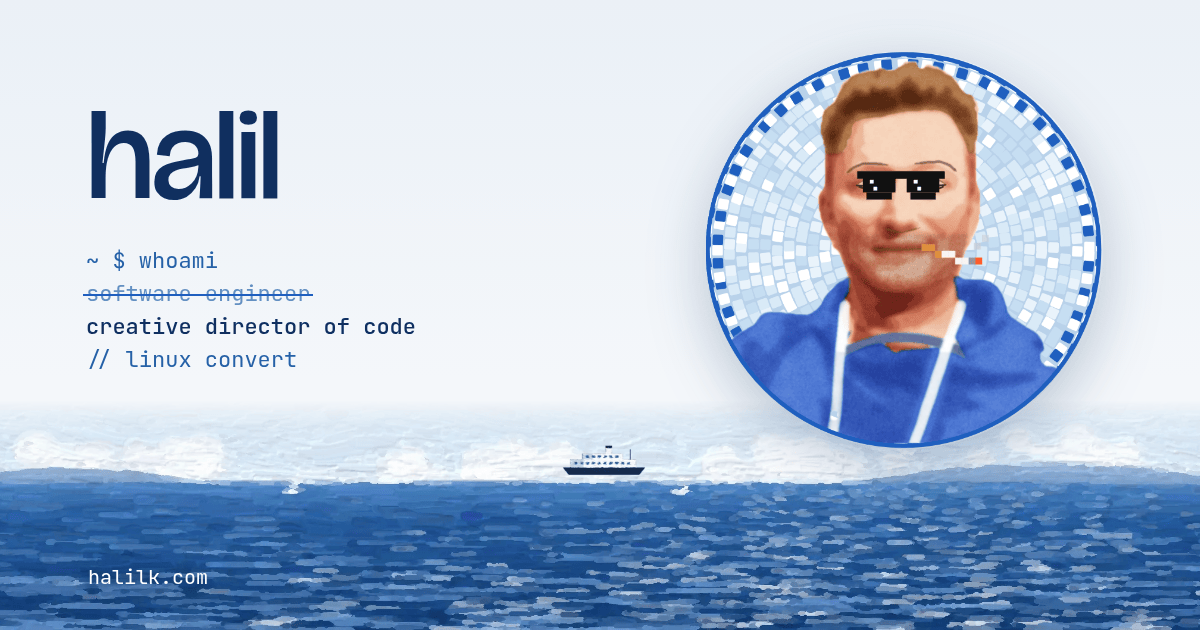
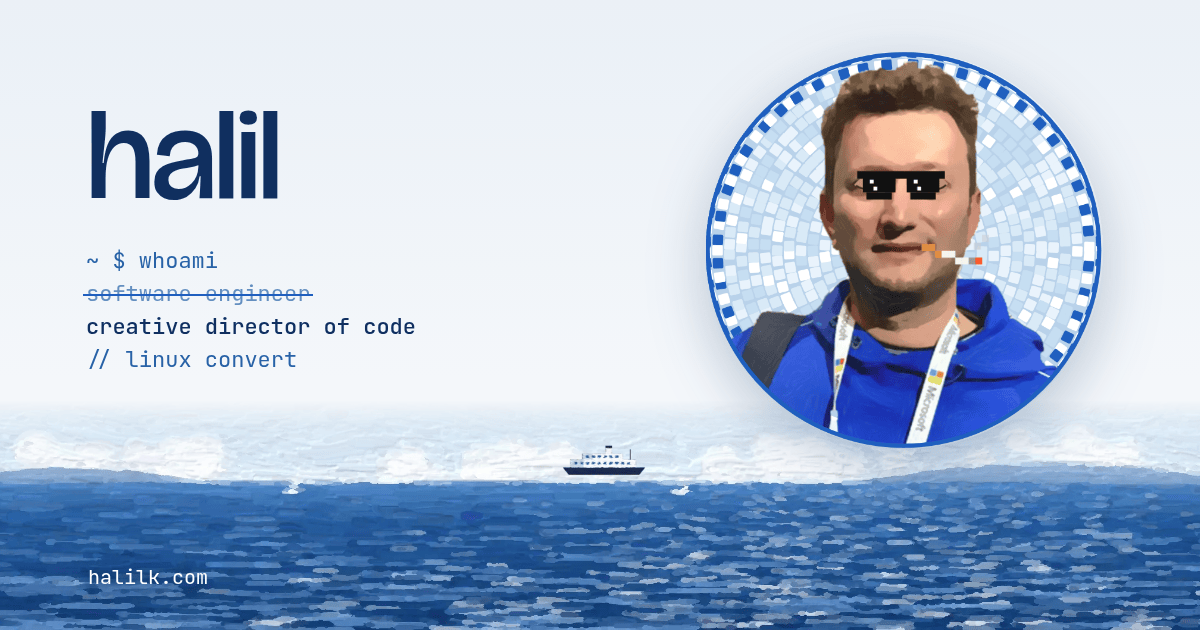
deploy: ibo549/halilk@2be8e807cc9b729763aa8944e6ad6124f8f7d6e5

Changed region(s): [[0.6167, 0.0905, 0.8942, 0.7238]]

diff --git a/about/index.html b/about/index.html
@@ -7,8 +7,8 @@
 <span class=bar-np-text></span>
 </a><time class=bar-clock title="My local time in Poland"></time>
 <button class=bar-theme type=button aria-label="Switch theme">
-<svg viewBox="0 0 24 24" aria-hidden="true"><mask id="moon-bite"><rect width="24" height="24" fill="#fff"/><circle class="bite" cx="24" cy="4" r="7" fill="#000"/></mask><circle class="orb" cx="12" cy="12" r="5.2" mask="url(#moon-bite)"/><g class="rays"><line x1="12" y1="1.8" x2="12" y2="3.8"/><line x1="12" y1="20.2" x2="12" y2="22.2"/><line x1="1.8" y1="12" x2="3.8" y2="12"/><line x1="20.2" y1="12" x2="22.2" y2="12"/><line x1="4.8" y1="4.8" x2="6.2" y2="6.2"/><line x1="17.8" y1="17.8" x2="19.2" y2="19.2"/><line x1="4.8" y1="19.2" x2="6.2" y2="17.8"/><line x1="17.8" y1="6.2" x2="19.2" y2="4.8"/></g></svg></button></div><span class=bar-progress aria-hidden=true></span></header><div class=shell id=content><main class="page page--wide"><article class="post about"><div class=about-main><header class=page-head><h1 class=page-title>Hi! I am Halil.</h1><p class=about-lede>🇵🇱 A software engineer based in Poland.<br>👨🏼💻 Running my own software consultancy business out of my home office in Poland.</p></header><div class=prose><p>Programming is a hobby from my early childhood days. I have been doing it for more than 15 years professionally. I happened to live in a few different countries either as an expat software engineer or for obtaining degrees in software engineering (Estonia, UK, Turkey, and currently Poland).</p><p>🎯 I am a bit obsessed with good quality software. Good enough is usually not good enough for me. Starting from the ideation, through UX, into the design of an architecture that scales, implementation of the MVP, creation of devops pipelines, gathering feedback from end-users.. repeat until it becomes perfect. I love being in every phase of it, one way or another.</p><p class=pullquote aria-hidden=true>Good enough is usually not good enough for me.</p><p>🌸 I believe in a strong team culture where everyone in the team is empowered by each other. Taking the lead in their area of expertise. I aim to be the force-multiplier kind of person who tries his best to give everyone the juice to flourish. I see developing world-class software as a team-sport after all.</p><p>🌃 Apart from my day job, sometimes I do <a href=/projects/>projects</a> on the side (although these all pre-date the AI-assisted coding era, built the hard way, character by character) mostly because of curiosity. In the evenings or at some weekends.. if I can negotiate the time with my SO.</p><p>📖 My Kindle mostly consists of articles I find interesting on the web (mostly Hacker News nowadays) and books about my profession or sci-fi.</p><p>🎸 Playing electric guitar on a Vox without disturbing anyone at night is also something I like to do occasionally.</p><p>I am a father of 2 beautiful girls and I love them endlessly.</p></div></div><aside class=about-side><figure class="portrait portrait--about" data-portrait><div class=portrait-card><div class="portrait-face portrait-front"><svg class="portrait-svg" viewBox="0 0 282 282" role="img" aria-label="Halil Karaca, a watercolour cartoon in front of a blue and white mosaic"><defs><clipPath id="pt-medal"><circle cx="141" cy="141" r="138"/></clipPath></defs><g clip-path="url(#pt-medal)"><g class="pt-roundel" data-roundel=""><circle class="pt-roundel-bg" cx="141" cy="141" r="138"/></g></g></svg><div class=pt-art aria-hidden=true><div class=pt-art-tilt><div class=pt-art-breath><img src=/img/halil-watercolor.webp alt width=840 height=840 decoding=async>
-<svg class="pt-over" viewBox="0 0 282 282"><clipPath id="pt-eye-r"><path d="M108.3 97.7 109.4 96.9l1.3-1 2.3-1.2L116.8 94 120.5 94.2 124.5 95.6 127.5 97.7 128.9 99 127.8 99.3h-2.5L121.7 99.7 118 1e2 114.3 99.9 111.8 99.3 110 98.7z"/></clipPath><g clip-path="url(#pt-eye-r)"><g class="pt-iris"><circle cx="117.5" cy="96.9" r="4.07" class="pt-irisc"/><circle cx="117.5" cy="96.9" r="1.87" class="pt-pupil"/><circle cx="116.2" cy="95.5" r=".98" class="pt-glint"/></g></g><g class="pt-lid"><path class="pt-lid-skin" d="M108.3 97.7 109.4 96.9l1.3-1 2.3-1.2L116.8 94 120.5 94.2 124.5 95.6 127.5 97.7 128.9 99 127.8 99.3h-2.5L121.7 99.7 118 1e2 114.3 99.9 111.8 99.3 110 98.7z"/><path class="pt-lash" d="M108.3 97.7 128.9 99 127.8 99.3h-2.5L121.7 99.7 118 1e2 114.3 99.9 111.8 99.3 110 98.7"/></g><clipPath id="pt-eye-l"><path d="M170.4 97.3 169.4 96.6 168 95.6 165.6 94.4 161.9 93.7 158 94.1l-4 1.5-3 2.2L149.6 99.3 150.8 99.5 153.2 99.7 156.8 100.1 160.8 100.4 164.5 1e2 167 99.4 168.8 98.6z"/></clipPath><g clip-path="url(#pt-eye-l)"><g class="pt-iris"><circle cx="161.4" cy="97" r="4.12" class="pt-irisc"/><circle cx="161.4" cy="97" r="1.9" class="pt-pupil"/><circle cx="160.1" cy="95.5" r=".99" class="pt-glint"/></g></g><g class="pt-lid"><path class="pt-lid-skin" d="M170.4 97.3 169.4 96.6 168 95.6 165.6 94.4 161.9 93.7 158 94.1l-4 1.5-3 2.2L149.6 99.3 150.8 99.5 153.2 99.7 156.8 100.1 160.8 100.4 164.5 1e2 167 99.4 168.8 98.6z"/><path class="pt-lash" d="M170.4 97.3l-20.8 2L150.8 99.5 153.2 99.7 156.8 100.1 160.8 100.4 164.5 1e2 167 99.4 168.8 98.6"/></g><g class="pt-cig"><g class="pt-cig-drop"><rect class="pt-cig-filter" x="153.68" y="138.78" width="4.8" height="4.8"/><rect class="pt-cig-filter" x="158.39" y="138.78" width="4.8" height="4.8"/><rect class="pt-cig-filter" x="163.09" y="143.48" width="4.8" height="4.8"/><rect class="pt-cig-paper" x="167.79" y="143.48" width="4.8" height="4.8"/><rect class="pt-cig-paper" x="172.5" y="143.48" width="4.8" height="4.8"/><rect class="pt-cig-paper" x="177.2" y="148.19" width="4.8" height="4.8"/><rect class="pt-cig-paper" x="181.9" y="148.19" width="4.8" height="4.8"/><rect class="pt-cig-ash" x="186.61" y="148.19" width="4.8" height="4.8"/><rect class="pt-cig-ember" x="191.31" y="148.19" width="4.8" height="4.8"/><g class="pt-smoke" style="--s:0"><rect class="pt-smoke-px" x="191.31" y="138.78" width="4.8" height="4.8"/></g><g class="pt-smoke" style="--s:1"><rect class="pt-smoke-px" x="196.01" y="129.37" width="4.8" height="4.8"/></g><g class="pt-smoke" style="--s:2"><rect class="pt-smoke-px" x="191.31" y="119.97" width="4.8" height="4.8"/></g><g class="pt-smoke" style="--s:3"><rect class="pt-smoke-px" x="196.01" y="110.56" width="4.8" height="4.8"/></g></g></g><g class="pt-shades"><g class="pt-shades-drop"><rect x="108.6" y="87.7" width="61.4" height="5.4"/><rect x="112.6" y="92.7" width="22.8" height="9.9"/><rect x="115.1" y="102.6" width="17.8" height="5"/><rect x="143.3" y="92.7" width="22.8" height="9.9"/><rect x="145.8" y="102.6" width="17.8" height="5"/><rect class="pt-glint" x="117.5" y="93.7" width="2.7" height="2.7"/><rect class="pt-glint" x="120" y="98.6" width="2.7" height="2.7"/><rect class="pt-glint" x="148.2" y="93.7" width="2.7" height="2.7"/><rect class="pt-glint" x="150.7" y="98.6" width="2.7" height="2.7"/></g></g></svg></div></div></div><svg class="pt-ring" viewBox="0 0 282 282" aria-hidden="true"><circle class="pt-rim" cx="141" cy="141" r="138"/></svg></div><div class="portrait-face portrait-back" aria-hidden=true><svg viewBox="26 9 282 282"><clipPath id="pt-photo-clip"><circle cx="167" cy="150" r="138"/></clipPath><image href="/img/profile2.jpeg" x="0" y="0" width="320" height="320" clip-path="url(#pt-photo-clip)" preserveAspectRatio="none"/><circle class="pt-photo-rim" cx="167" cy="150" r="138"/></svg></div></div></figure></aside></article></main></div><footer class=land><div class=shore><canvas id=shore aria-hidden=true></canvas><div class=ferry aria-hidden=true><img src=/img/painting/ferry.webp alt width=240 height=105 loading=lazy decoding=async>
+<svg viewBox="0 0 24 24" aria-hidden="true"><mask id="moon-bite"><rect width="24" height="24" fill="#fff"/><circle class="bite" cx="24" cy="4" r="7" fill="#000"/></mask><circle class="orb" cx="12" cy="12" r="5.2" mask="url(#moon-bite)"/><g class="rays"><line x1="12" y1="1.8" x2="12" y2="3.8"/><line x1="12" y1="20.2" x2="12" y2="22.2"/><line x1="1.8" y1="12" x2="3.8" y2="12"/><line x1="20.2" y1="12" x2="22.2" y2="12"/><line x1="4.8" y1="4.8" x2="6.2" y2="6.2"/><line x1="17.8" y1="17.8" x2="19.2" y2="19.2"/><line x1="4.8" y1="19.2" x2="6.2" y2="17.8"/><line x1="17.8" y1="6.2" x2="19.2" y2="4.8"/></g></svg></button></div><span class=bar-progress aria-hidden=true></span></header><div class=shell id=content><main class="page page--wide"><article class="post about"><div class=about-main><header class=page-head><h1 class=page-title>Hi! I am Halil.</h1><p class=about-lede>🇵🇱 A software engineer based in Poland.<br>👨🏼💻 Running my own software consultancy business out of my home office in Poland.</p></header><div class=prose><p>Programming is a hobby from my early childhood days. I have been doing it for more than 15 years professionally. I happened to live in a few different countries either as an expat software engineer or for obtaining degrees in software engineering (Estonia, UK, Turkey, and currently Poland).</p><p>🎯 I am a bit obsessed with good quality software. Good enough is usually not good enough for me. Starting from the ideation, through UX, into the design of an architecture that scales, implementation of the MVP, creation of devops pipelines, gathering feedback from end-users.. repeat until it becomes perfect. I love being in every phase of it, one way or another.</p><p class=pullquote aria-hidden=true>Good enough is usually not good enough for me.</p><p>🌸 I believe in a strong team culture where everyone in the team is empowered by each other. Taking the lead in their area of expertise. I aim to be the force-multiplier kind of person who tries his best to give everyone the juice to flourish. I see developing world-class software as a team-sport after all.</p><p>🌃 Apart from my day job, sometimes I do <a href=/projects/>projects</a> on the side (although these all pre-date the AI-assisted coding era, built the hard way, character by character) mostly because of curiosity. In the evenings or at some weekends.. if I can negotiate the time with my SO.</p><p>📖 My Kindle mostly consists of articles I find interesting on the web (mostly Hacker News nowadays) and books about my profession or sci-fi.</p><p>🎸 Playing electric guitar on a Vox without disturbing anyone at night is also something I like to do occasionally.</p><p>I am a father of 2 beautiful girls and I love them endlessly.</p></div></div><aside class=about-side><figure class="portrait portrait--about" data-portrait><div class=portrait-card><div class="portrait-face portrait-front"><svg class="portrait-svg" viewBox="0 0 282 282" role="img" aria-label="Halil Karaca, a painted portrait in front of a blue and white mosaic"><defs><clipPath id="pt-medal"><circle cx="141" cy="141" r="138"/></clipPath></defs><g clip-path="url(#pt-medal)"><g class="pt-roundel" data-roundel=""><circle class="pt-roundel-bg" cx="141" cy="141" r="138"/></g></g></svg><div class=pt-art aria-hidden=true><div class=pt-art-tilt><div class=pt-art-breath><img src=/img/halil-painted.webp alt width=720 height=720 decoding=async>
+<svg class="pt-over" viewBox="0 0 282 282"><g class="pt-lid"><path fill="#c0957f" d="M106.5 97.2 107.8 95.8 109.4 94.1 112.1 92.1 116.6 90.9 120.9 91.2 125.7 93.6 129.2 97.2 130.9 99.4 129.6 99.9h-3L122.4 100.6 118 101.1 113.6 100.9 110.7 99.9 108.6 98.9z"/><path class="pt-lash" d="M128.9 99.4 127.8 99.7h-2.5L121.7 100.1 118 100.4 114.3 100.3 111.8 99.7 110 99.1l-1.7-1"/></g><g class="pt-lid"><path fill="#c2907c" d="M172.2 96.5 171 95.3 169.3 93.6 166.5 91.5 162.1 90.3 157.5 91 152.8 93.6l-3.5 3.7L147.6 99.9 149 100.2 151.9 100.5 156.1 101.2 160.8 101.7 165.2 101.1 168.1 1e2 170.3 98.7z"/><path class="pt-lash" d="M149.6 99.7 150.8 99.9 153.2 100.1 156.8 100.5 160.8 100.8 164.5 100.4 167 99.8 168.8 99 170.4 97.7"/></g><g class="pt-cig"><g class="pt-cig-drop"><rect class="pt-cig-filter" x="153.68" y="138.78" width="4.8" height="4.8"/><rect class="pt-cig-filter" x="158.39" y="138.78" width="4.8" height="4.8"/><rect class="pt-cig-filter" x="163.09" y="143.48" width="4.8" height="4.8"/><rect class="pt-cig-paper" x="167.79" y="143.48" width="4.8" height="4.8"/><rect class="pt-cig-paper" x="172.5" y="143.48" width="4.8" height="4.8"/><rect class="pt-cig-paper" x="177.2" y="148.19" width="4.8" height="4.8"/><rect class="pt-cig-paper" x="181.9" y="148.19" width="4.8" height="4.8"/><rect class="pt-cig-ash" x="186.61" y="148.19" width="4.8" height="4.8"/><rect class="pt-cig-ember" x="191.31" y="148.19" width="4.8" height="4.8"/><g class="pt-smoke" style="--s:0"><rect class="pt-smoke-px" x="191.31" y="138.78" width="4.8" height="4.8"/></g><g class="pt-smoke" style="--s:1"><rect class="pt-smoke-px" x="196.01" y="129.37" width="4.8" height="4.8"/></g><g class="pt-smoke" style="--s:2"><rect class="pt-smoke-px" x="191.31" y="119.97" width="4.8" height="4.8"/></g><g class="pt-smoke" style="--s:3"><rect class="pt-smoke-px" x="196.01" y="110.56" width="4.8" height="4.8"/></g></g></g><g class="pt-shades"><g class="pt-shades-drop"><rect x="108.6" y="87.7" width="61.4" height="5.4"/><rect x="112.6" y="92.7" width="22.8" height="9.9"/><rect x="115.1" y="102.6" width="17.8" height="5"/><rect x="143.3" y="92.7" width="22.8" height="9.9"/><rect x="145.8" y="102.6" width="17.8" height="5"/><rect class="pt-glint" x="117.5" y="93.7" width="2.7" height="2.7"/><rect class="pt-glint" x="120" y="98.6" width="2.7" height="2.7"/><rect class="pt-glint" x="148.2" y="93.7" width="2.7" height="2.7"/><rect class="pt-glint" x="150.7" y="98.6" width="2.7" height="2.7"/></g></g></svg></div></div></div><svg class="pt-ring" viewBox="0 0 282 282" aria-hidden="true"><circle class="pt-rim" cx="141" cy="141" r="138"/></svg></div><div class="portrait-face portrait-back" aria-hidden=true><svg viewBox="26 9 282 282"><clipPath id="pt-photo-clip"><circle cx="167" cy="150" r="138"/></clipPath><image href="/img/profile2.jpeg" x="0" y="0" width="320" height="320" clip-path="url(#pt-photo-clip)" preserveAspectRatio="none"/><circle class="pt-photo-rim" cx="167" cy="150" r="138"/></svg></div></div></figure></aside></article></main></div><footer class=land><div class=shore><canvas id=shore aria-hidden=true></canvas><div class=ferry aria-hidden=true><img src=/img/painting/ferry.webp alt width=240 height=105 loading=lazy decoding=async>
 <span class=ferry-puffs><i></i><i></i><i></i></span></div><div class=shore-veil aria-hidden=true></div><div class=shore-text><a class=radio href=/now-playing/ hidden><span class=radio-disc aria-hidden=true><span class=radio-art></span></span>
 <span class=radio-lines><span class=radio-label></span>
 <span class=radio-track></span>

diff --git a/index.html b/index.html
@@ -12,8 +12,8 @@
 <del aria-hidden=true>software engineer</del>
 <ins aria-hidden=true>creative director of code</ins>
 <span class=whoami-comment aria-hidden=true>// linux convert</span>
-<a class="whoami-comment whoami-link" href=https://github.com/ibo549 rel="me noopener">// github.com/ibo549</a></div><div class=hero-prose><p>You can read my <a href=/journal/ data-say=journal>journal</a> <span class=aside>(or not, it's only for me anyway)</span>.</p><p>Or read <a href=/about/ data-say=about>who am I</a>.</p><p>I also have this <a href=/projects/ data-say=projects>projects</a> page which should feel nostalgic coz' they are all from the primitive era where we used to type every single line of code character by character.</p><p class=hello>If you'd like to say hello, you can reach me at <a href=mailto:halil.ibrahim.karaca@gmail.com data-say=email>halil.ibrahim.karaca@gmail.com</a>. I will read it because of my inbox-zero policy but I don't guarantee that I will respond.</p></div></div><figure class="portrait portrait--hero" data-portrait><div class=portrait-card><div class="portrait-face portrait-front"><svg class="portrait-svg" viewBox="0 0 282 282" role="img" aria-label="Halil Karaca, a watercolour cartoon in front of a blue and white mosaic"><defs><clipPath id="pt-medal"><circle cx="141" cy="141" r="138"/></clipPath></defs><g clip-path="url(#pt-medal)"><g class="pt-roundel" data-roundel=""><circle class="pt-roundel-bg" cx="141" cy="141" r="138"/></g></g></svg><div class=pt-art aria-hidden=true><div class=pt-art-tilt><div class=pt-art-breath><img src=/img/halil-watercolor.webp alt width=840 height=840 decoding=async>
-<svg class="pt-over" viewBox="0 0 282 282"><clipPath id="pt-eye-r"><path d="M108.3 97.7 109.4 96.9l1.3-1 2.3-1.2L116.8 94 120.5 94.2 124.5 95.6 127.5 97.7 128.9 99 127.8 99.3h-2.5L121.7 99.7 118 1e2 114.3 99.9 111.8 99.3 110 98.7z"/></clipPath><g clip-path="url(#pt-eye-r)"><g class="pt-iris"><circle cx="117.5" cy="96.9" r="4.07" class="pt-irisc"/><circle cx="117.5" cy="96.9" r="1.87" class="pt-pupil"/><circle cx="116.2" cy="95.5" r=".98" class="pt-glint"/></g></g><g class="pt-lid"><path class="pt-lid-skin" d="M108.3 97.7 109.4 96.9l1.3-1 2.3-1.2L116.8 94 120.5 94.2 124.5 95.6 127.5 97.7 128.9 99 127.8 99.3h-2.5L121.7 99.7 118 1e2 114.3 99.9 111.8 99.3 110 98.7z"/><path class="pt-lash" d="M108.3 97.7 128.9 99 127.8 99.3h-2.5L121.7 99.7 118 1e2 114.3 99.9 111.8 99.3 110 98.7"/></g><clipPath id="pt-eye-l"><path d="M170.4 97.3 169.4 96.6 168 95.6 165.6 94.4 161.9 93.7 158 94.1l-4 1.5-3 2.2L149.6 99.3 150.8 99.5 153.2 99.7 156.8 100.1 160.8 100.4 164.5 1e2 167 99.4 168.8 98.6z"/></clipPath><g clip-path="url(#pt-eye-l)"><g class="pt-iris"><circle cx="161.4" cy="97" r="4.12" class="pt-irisc"/><circle cx="161.4" cy="97" r="1.9" class="pt-pupil"/><circle cx="160.1" cy="95.5" r=".99" class="pt-glint"/></g></g><g class="pt-lid"><path class="pt-lid-skin" d="M170.4 97.3 169.4 96.6 168 95.6 165.6 94.4 161.9 93.7 158 94.1l-4 1.5-3 2.2L149.6 99.3 150.8 99.5 153.2 99.7 156.8 100.1 160.8 100.4 164.5 1e2 167 99.4 168.8 98.6z"/><path class="pt-lash" d="M170.4 97.3l-20.8 2L150.8 99.5 153.2 99.7 156.8 100.1 160.8 100.4 164.5 1e2 167 99.4 168.8 98.6"/></g><g class="pt-cig"><g class="pt-cig-drop"><rect class="pt-cig-filter" x="153.68" y="138.78" width="4.8" height="4.8"/><rect class="pt-cig-filter" x="158.39" y="138.78" width="4.8" height="4.8"/><rect class="pt-cig-filter" x="163.09" y="143.48" width="4.8" height="4.8"/><rect class="pt-cig-paper" x="167.79" y="143.48" width="4.8" height="4.8"/><rect class="pt-cig-paper" x="172.5" y="143.48" width="4.8" height="4.8"/><rect class="pt-cig-paper" x="177.2" y="148.19" width="4.8" height="4.8"/><rect class="pt-cig-paper" x="181.9" y="148.19" width="4.8" height="4.8"/><rect class="pt-cig-ash" x="186.61" y="148.19" width="4.8" height="4.8"/><rect class="pt-cig-ember" x="191.31" y="148.19" width="4.8" height="4.8"/><g class="pt-smoke" style="--s:0"><rect class="pt-smoke-px" x="191.31" y="138.78" width="4.8" height="4.8"/></g><g class="pt-smoke" style="--s:1"><rect class="pt-smoke-px" x="196.01" y="129.37" width="4.8" height="4.8"/></g><g class="pt-smoke" style="--s:2"><rect class="pt-smoke-px" x="191.31" y="119.97" width="4.8" height="4.8"/></g><g class="pt-smoke" style="--s:3"><rect class="pt-smoke-px" x="196.01" y="110.56" width="4.8" height="4.8"/></g></g></g><g class="pt-shades"><g class="pt-shades-drop"><rect x="108.6" y="87.7" width="61.4" height="5.4"/><rect x="112.6" y="92.7" width="22.8" height="9.9"/><rect x="115.1" y="102.6" width="17.8" height="5"/><rect x="143.3" y="92.7" width="22.8" height="9.9"/><rect x="145.8" y="102.6" width="17.8" height="5"/><rect class="pt-glint" x="117.5" y="93.7" width="2.7" height="2.7"/><rect class="pt-glint" x="120" y="98.6" width="2.7" height="2.7"/><rect class="pt-glint" x="148.2" y="93.7" width="2.7" height="2.7"/><rect class="pt-glint" x="150.7" y="98.6" width="2.7" height="2.7"/></g></g></svg></div></div></div><svg class="pt-ring" viewBox="0 0 282 282" aria-hidden="true"><circle class="pt-rim" cx="141" cy="141" r="138"/></svg></div><div class="portrait-face portrait-back" aria-hidden=true><svg viewBox="26 9 282 282"><clipPath id="pt-photo-clip"><circle cx="167" cy="150" r="138"/></clipPath><image href="/img/profile2.jpeg" x="0" y="0" width="320" height="320" clip-path="url(#pt-photo-clip)" preserveAspectRatio="none"/><circle class="pt-photo-rim" cx="167" cy="150" r="138"/></svg></div></div></figure></section></main></div><footer class=land><div class=shore><canvas id=shore aria-hidden=true></canvas><div class=ferry aria-hidden=true><img src=/img/painting/ferry.webp alt width=240 height=105 loading=lazy decoding=async>
+<a class="whoami-comment whoami-link" href=https://github.com/ibo549 rel="me noopener">// github.com/ibo549</a></div><div class=hero-prose><p>You can read my <a href=/journal/ data-say=journal>journal</a> <span class=aside>(or not, it's only for me anyway)</span>.</p><p>Or read <a href=/about/ data-say=about>who am I</a>.</p><p>I also have this <a href=/projects/ data-say=projects>projects</a> page which should feel nostalgic coz' they are all from the primitive era where we used to type every single line of code character by character.</p><p class=hello>If you'd like to say hello, you can reach me at <a href=mailto:halil.ibrahim.karaca@gmail.com data-say=email>halil.ibrahim.karaca@gmail.com</a>. I will read it because of my inbox-zero policy but I don't guarantee that I will respond.</p></div></div><figure class="portrait portrait--hero" data-portrait><div class=portrait-card><div class="portrait-face portrait-front"><svg class="portrait-svg" viewBox="0 0 282 282" role="img" aria-label="Halil Karaca, a painted portrait in front of a blue and white mosaic"><defs><clipPath id="pt-medal"><circle cx="141" cy="141" r="138"/></clipPath></defs><g clip-path="url(#pt-medal)"><g class="pt-roundel" data-roundel=""><circle class="pt-roundel-bg" cx="141" cy="141" r="138"/></g></g></svg><div class=pt-art aria-hidden=true><div class=pt-art-tilt><div class=pt-art-breath><img src=/img/halil-painted.webp alt width=720 height=720 decoding=async>
+<svg class="pt-over" viewBox="0 0 282 282"><g class="pt-lid"><path fill="#c0957f" d="M106.5 97.2 107.8 95.8 109.4 94.1 112.1 92.1 116.6 90.9 120.9 91.2 125.7 93.6 129.2 97.2 130.9 99.4 129.6 99.9h-3L122.4 100.6 118 101.1 113.6 100.9 110.7 99.9 108.6 98.9z"/><path class="pt-lash" d="M128.9 99.4 127.8 99.7h-2.5L121.7 100.1 118 100.4 114.3 100.3 111.8 99.7 110 99.1l-1.7-1"/></g><g class="pt-lid"><path fill="#c2907c" d="M172.2 96.5 171 95.3 169.3 93.6 166.5 91.5 162.1 90.3 157.5 91 152.8 93.6l-3.5 3.7L147.6 99.9 149 100.2 151.9 100.5 156.1 101.2 160.8 101.7 165.2 101.1 168.1 1e2 170.3 98.7z"/><path class="pt-lash" d="M149.6 99.7 150.8 99.9 153.2 100.1 156.8 100.5 160.8 100.8 164.5 100.4 167 99.8 168.8 99 170.4 97.7"/></g><g class="pt-cig"><g class="pt-cig-drop"><rect class="pt-cig-filter" x="153.68" y="138.78" width="4.8" height="4.8"/><rect class="pt-cig-filter" x="158.39" y="138.78" width="4.8" height="4.8"/><rect class="pt-cig-filter" x="163.09" y="143.48" width="4.8" height="4.8"/><rect class="pt-cig-paper" x="167.79" y="143.48" width="4.8" height="4.8"/><rect class="pt-cig-paper" x="172.5" y="143.48" width="4.8" height="4.8"/><rect class="pt-cig-paper" x="177.2" y="148.19" width="4.8" height="4.8"/><rect class="pt-cig-paper" x="181.9" y="148.19" width="4.8" height="4.8"/><rect class="pt-cig-ash" x="186.61" y="148.19" width="4.8" height="4.8"/><rect class="pt-cig-ember" x="191.31" y="148.19" width="4.8" height="4.8"/><g class="pt-smoke" style="--s:0"><rect class="pt-smoke-px" x="191.31" y="138.78" width="4.8" height="4.8"/></g><g class="pt-smoke" style="--s:1"><rect class="pt-smoke-px" x="196.01" y="129.37" width="4.8" height="4.8"/></g><g class="pt-smoke" style="--s:2"><rect class="pt-smoke-px" x="191.31" y="119.97" width="4.8" height="4.8"/></g><g class="pt-smoke" style="--s:3"><rect class="pt-smoke-px" x="196.01" y="110.56" width="4.8" height="4.8"/></g></g></g><g class="pt-shades"><g class="pt-shades-drop"><rect x="108.6" y="87.7" width="61.4" height="5.4"/><rect x="112.6" y="92.7" width="22.8" height="9.9"/><rect x="115.1" y="102.6" width="17.8" height="5"/><rect x="143.3" y="92.7" width="22.8" height="9.9"/><rect x="145.8" y="102.6" width="17.8" height="5"/><rect class="pt-glint" x="117.5" y="93.7" width="2.7" height="2.7"/><rect class="pt-glint" x="120" y="98.6" width="2.7" height="2.7"/><rect class="pt-glint" x="148.2" y="93.7" width="2.7" height="2.7"/><rect class="pt-glint" x="150.7" y="98.6" width="2.7" height="2.7"/></g></g></svg></div></div></div><svg class="pt-ring" viewBox="0 0 282 282" aria-hidden="true"><circle class="pt-rim" cx="141" cy="141" r="138"/></svg></div><div class="portrait-face portrait-back" aria-hidden=true><svg viewBox="26 9 282 282"><clipPath id="pt-photo-clip"><circle cx="167" cy="150" r="138"/></clipPath><image href="/img/profile2.jpeg" x="0" y="0" width="320" height="320" clip-path="url(#pt-photo-clip)" preserveAspectRatio="none"/><circle class="pt-photo-rim" cx="167" cy="150" r="138"/></svg></div></div></figure></section></main></div><footer class=land><div class=shore><canvas id=shore aria-hidden=true></canvas><div class=ferry aria-hidden=true><img src=/img/painting/ferry.webp alt width=240 height=105 loading=lazy decoding=async>
 <span class=ferry-puffs><i></i><i></i><i></i></span></div><div class=shore-veil aria-hidden=true></div><div class=shore-text><a class=radio href=/now-playing/ hidden><span class=radio-disc aria-hidden=true><span class=radio-art></span></span>
 <span class=radio-lines><span class=radio-label></span>
 <span class=radio-track></span>
